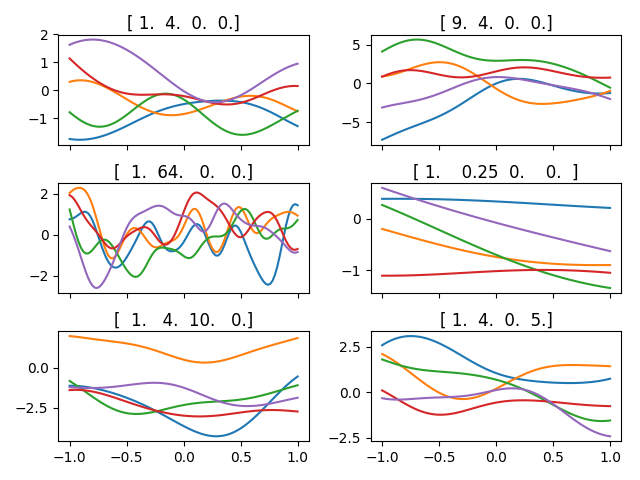
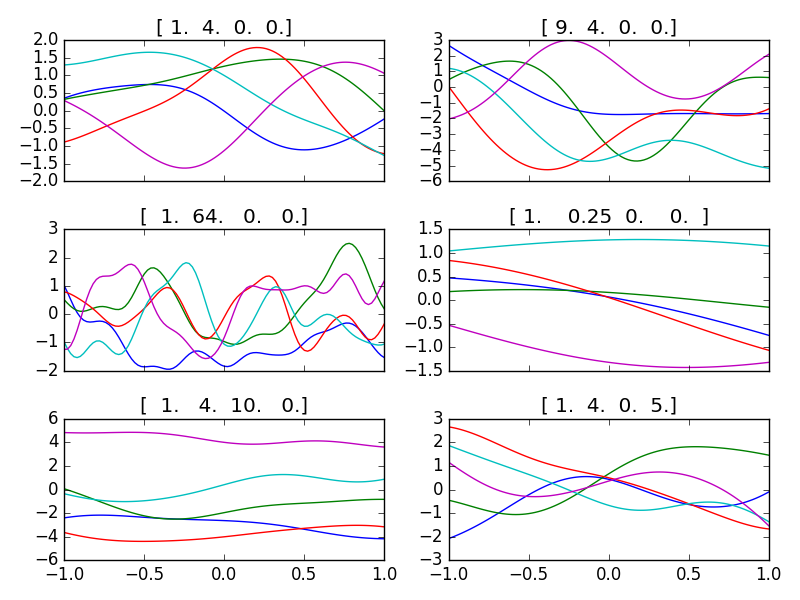
small update

diff --git a/Assignment 4/Code/Ex1.py b/Assignment 4/Code/Ex1.py
@@ -1,20 +1,29 @@
 import numpy as np
 from scipy.stats import multivariate_normal as mv
 from pylab import *
+from numpy.linalg import matrix_rank as rank
+from numpy.linalg import cholesky as chol
 
 
 # q1
 def kernel_function(x, theta):
-    '''
+    """
     Code for equation 3
-    '''
-
+    """
     sigma = np.zeros((len(x), len(x)))
     for idx, i in enumerate(x):
         for jdx, j in enumerate(x):
-            sigma[idx, jdx] = \
-            theta[0] * np.exp(- .5 * theta[1] * (i -  j)**2 ) + \
-             theta[2] + theta[3] * i * j
+            sigma[ idx, jdx ] = \
+                theta[ 0 ] * np.exp(- .5 * theta[ 1 ] * (i - j)**2) + \
+                theta[ 2 ] + theta[ 3 ] * i * j
+    return sigma
+
+
+def kernel_function_alt(x, theta):
+    SuppMat = np.power(np.abs(np.outer(np.ones_like(x), x)
+                              - np.outer(x, np.ones_like(x))), 2)
+    sigma = theta[ 0 ] * np.exp(-0.5 * theta[ 1 ] * SuppMat) \
+            + theta[ 2 ] + theta[ 3 ] * np.dot(x.T, x)
     return sigma
 
 
@@ -22,41 +31,60 @@ def kernel_function(x, theta):
 # number of points to sample
 N = 101
 x = np.linspace(-1, 1, N)
-theta = [1,1,1,1]
-K = kernel_function(x, theta)
+theta = [ 1., 1., 1., 1. ]
+K = kernel_function_alt(x, theta)
+
+# q3
+# dim:
+# obvious: K.shape = len(linspace) * len(linspace)
+
+
+# positive semidefinite:
+# we can do a Cholesky decomposition and investigate the rank of L
+# (rk K = dim im K - dim ker K = dim im K - dim ker L^T.L and
+# dim ker L^T.L = dim ker L = # linear dependencies in L's rows)
+# It suffices to show, that there is a Cholesky decomposition of K,
+# since then there is L, such that L^T.L = K, thus K is a Gramian,
+# thus it is p.sd. by construction.  (Symmetry is trivial, >= 0,
+# because every component of rows of L is real, thus it's square
+# is >= 0).
+
+L = chol(K)
+# this gives an error. is something wrong with the kernel?
+l = rank(L)
+# it would be surprising, if this was >= 0
 
 # q4
 mu = np.zeros(len(x))
 # for some reason it errors on singularity?
-prior = mv(mu, K, allow_singular = 1)
+prior = mv(mu, K, allow_singular=1)
 samples = prior.rvs(5)
 
-fig, ax = subplots(1,1)
+fig, ax = subplots(1, 1)
 for i in samples:
     ax.plot(x, i)
 savefig('../Figures/ex_1_test')
 
-thetas = np.array([\
-[1, 4, 0, 0], \
-[9, 4, 0, 0],\
-[1, 64, 0, 0],\
-[1, 0.25, 0,0],\
-[1, 4, 10, 0],\
-[1, 4, 0, 5] ])
+# q5
+thetas = np.array([ [ 1, 4, 0, 0 ], [ 9, 4, 0, 0 ], [ 1, 64, 0, 0 ],
+                    [ 1, 0.25, 0, 0 ], [ 1, 4, 10, 0 ], [ 1, 4, 0, 5 ] ])
 
 # i want at most 3 rows
 nRows = 3
 # get the the number of columns
-nCols = thetas.shape[0] // nRows
+nCols = thetas.shape[ 0 ] // nRows
 
-fig, ax = subplots(nrows = nRows, ncols = nCols, sharex = 'all')
+fig, ax = subplots(nrows=nRows, ncols=nCols, sharex='all')
 for idx, theta in enumerate(thetas):
     K = kernel_function(x, theta)
-    prior = mv(mu, K, allow_singular = 1)
+    prior = mv(mu, K, allow_singular=1)
     samples = prior.rvs(5)
     for i in samples:
-        ax.flatten()[idx].plot(x, i)
-    ax.flatten()[idx].set_title(theta)
+        ax.flatten()[ idx ].plot(x, i)
+    ax.flatten()[ idx ].set_title(theta)
 fig.tight_layout()
 savefig('../Figures/ex1_test2.png')
-show(block = 1)
+show(block=1)
+
+# q6
+(x1 = −0.5, t1 = 0.5), (x2 = 0.2, t2 = −1), (x3 = 0.3, t3 = 3), (x4 = −0.1, t4 = −2.5)
